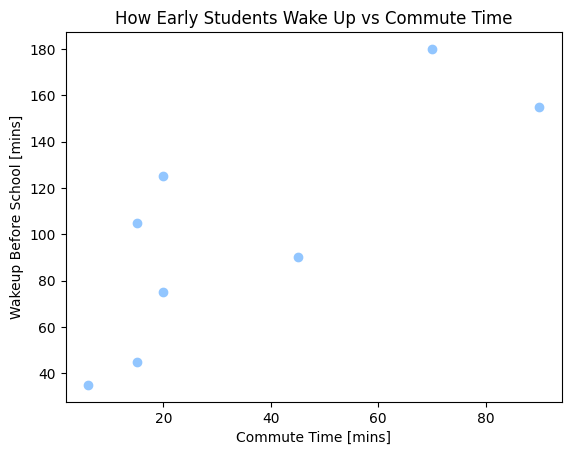
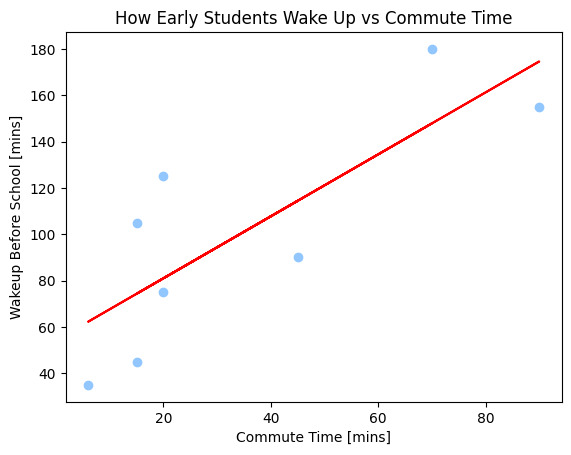
generated more plots

diff --git a/main.py b/main.py
@@ -1,4 +1,5 @@
 import pandas as pd
+import numpy as np
 from matplotlib import pyplot as plt
 
 # Set style theme
@@ -16,11 +17,11 @@ df['Night Owl'] = pd.to_numeric(df['Night Owl']).fillna(0).astype(bool)
 print(df.info())
 
 # SCATTER PLOT
-plt.scatter(df['BigFive Extraversion'], df['BigFive Agreeableness'])
-plt.ylabel('Agreeableness Score')
-plt.xlabel('Extraversion Score')
-plt.title('BigFive Extraversion vs Agreeableness')
-plt.savefig('bigfive_scatter.png', bbox_inches='tight')
+plt.scatter(df['Instagram Followers'], df['Instagram Follows'], alpha=0.7)
+plt.xlabel('Number of Followers')
+plt.ylabel('Number of Accounts Followed')
+plt.title('Instagram Follows vs. Followers')
+plt.savefig('instagram_scatter.png', bbox_inches='tight')
 plt.close()
 
 # BAR CHART
@@ -36,7 +37,7 @@ plt.close()
 
 # PIE CHART
 zodiac_counts = df['Zodiac Element'].value_counts()
-colors = ["#df3b3b","#3389df","#5f8e5f","#c4c4c4"]  # Custom colors for each element
+colors = ["#df3b3b","#3389df","#5f8e5f","#c4c4c4"] # Custom colors
 plt.pie(zodiac_counts.values, labels=zodiac_counts.index, colors=colors, startangle=90, autopct='%1.1f%%', wedgeprops={'edgecolor': 'black'})
 plt.title('Distribution of Zodiac Elements')
 plt.axis('equal')
@@ -47,10 +48,29 @@ plt.close()
 df['Wakeup Time in Minutes'] = df['Wakeup Time Weekday'].apply(lambda t: t.hour * 60 + t.minute)
 df['Wakeup Before School'] = (8 * 60 + 15) - df['Wakeup Time in Minutes']
 
-# SCATTER PLOT
+# SCATTER PLOT + LINE OF BEST FIT
 plt.scatter(df['Commute Time Minutes'], df['Wakeup Before School'])
 plt.ylabel('Wakeup Before School [mins]')
 plt.xlabel('Commute Time [mins]')
 plt.title('How Early Students Wake Up vs Commute Time')
+# Calculate line of best fit 
+m, b = np.polyfit(df['Commute Time Minutes'].dropna(), df['Wakeup Before School'].dropna(), 1)
+# Plot line of best fit
+plt.plot(df['Commute Time Minutes'], m*df['Commute Time Minutes'] + b, color='red')
 plt.savefig('wakeup_scatter.png', bbox_inches='tight')
 plt.close()
+
+# HEATMAP (correlation matrix)
+bigfive_cols = ['BigFive Neuroticism', 'BigFive Extraversion', 'BigFive Openness', 'BigFive Conscientious', 'BigFive Agreeableness']
+bigfive_data = df[bigfive_cols]
+correlation_matrix = bigfive_data.corr()
+
+plt.imshow(correlation_matrix, cmap='coolwarm', aspect='auto', vmin=-1, vmax=1)
+plt.colorbar(label='Correlation Coefficient')
+plt.xticks(range(len(bigfive_cols)), bigfive_cols, rotation=45, ha='right')
+plt.yticks(range(len(bigfive_cols)), bigfive_cols)
+plt.title('Correlation Heatmap of Personality Traits')
+
+plt.tight_layout()
+plt.savefig('bigfive_heatmap.png', bbox_inches='tight')
+plt.close() 
